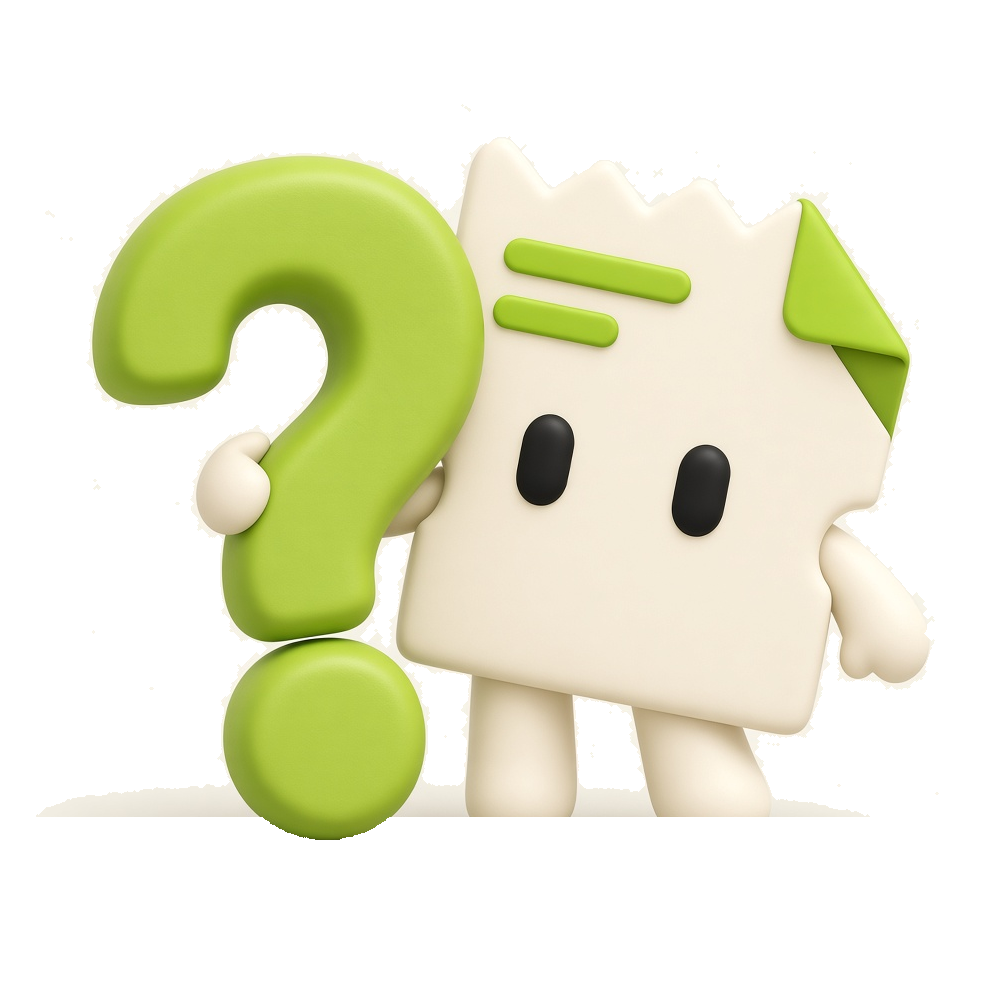
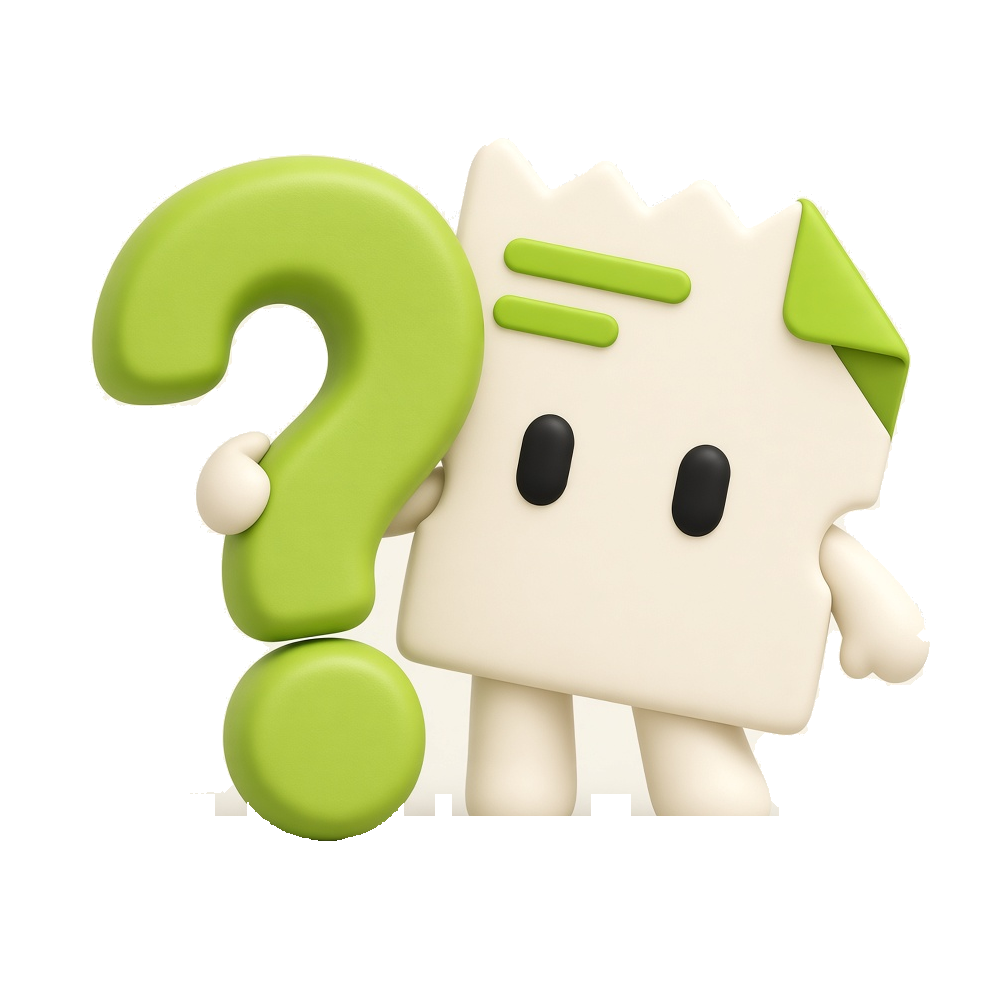
Knock out leftover studio background on empty-cart Vaini and re-place the bust like Android.

diff --git a/src/pages/cart-page.tsx b/src/pages/cart-page.tsx
@@ -539,7 +539,15 @@ export function CartEmptyView({
           <span className="alumno-antojo__deco alumno-antojo__deco--note">
             <NoteIcon />
           </span>
-          <img className="alumno-antojo__hug" src="/vaini/cutout-hug-question.png" alt="" />
+          <img
+            className="alumno-antojo__hug"
+            src="/vaini/cutout-hug-question.png"
+            alt=""
+            width={998}
+            height={998}
+            decoding="async"
+            fetchPriority="high"
+          />
           <span className="alumno-antojo__deco alumno-antojo__deco--cup">
             <CupIcon />
           </span>

diff --git a/src/styles/alumno.css b/src/styles/alumno.css
@@ -834,10 +834,10 @@ html[data-theme='amoled'] .alumno-antojo img {
   display: block;
   position: absolute;
   inset: auto;
-  top: -10%;
-  left: -10%;
-  width: 120%;
-  height: 164%;
+  top: -8%;
+  left: -8%;
+  width: 116%;
+  height: 160%;
   margin: 0;
   object-fit: contain;
   object-position: center 8%;
